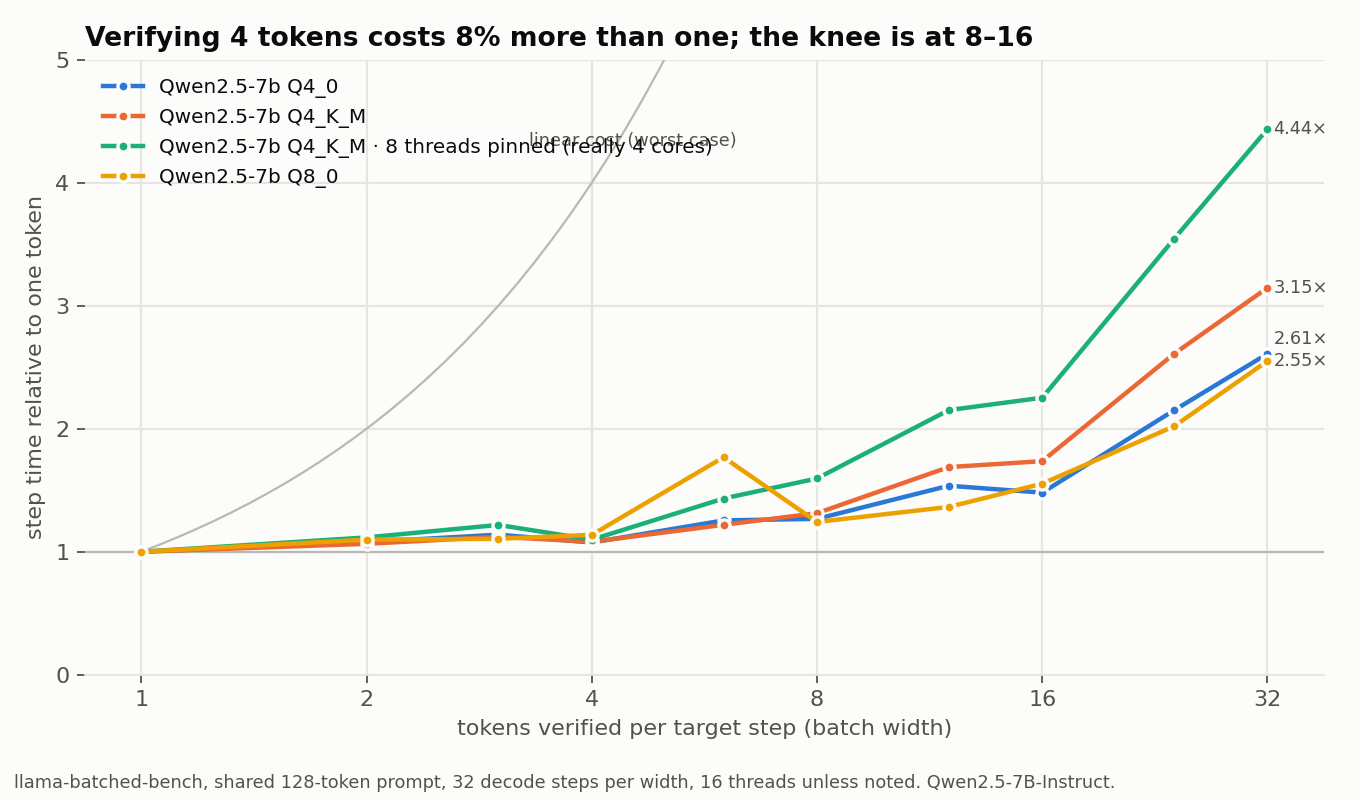
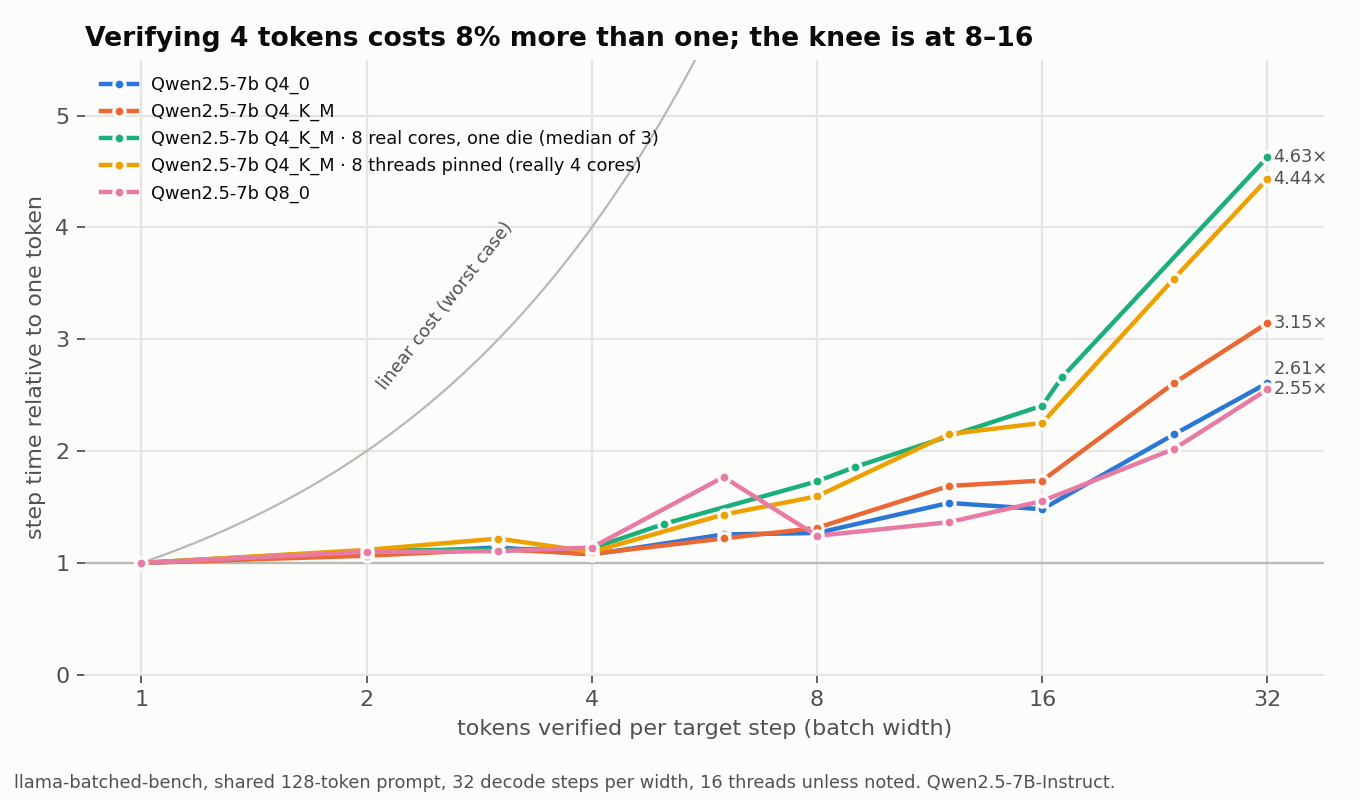
Pinning bug: confession post 15; posts 5 and 10 corrected with rerun numbers (old ones struck through); new p13 chart; ledger updates

diff --git a/index.html b/index.html
@@ -5,7 +5,7 @@ title: GPU Poor
 <section class="hero">
   <p class="eyebrow">A blog about running large language models on a desktop CPU</p>
   <h1 class="hero-title">No GPU. One CPU. <span class="strike">96 GB/s</span> 57 GB/s.</h1>
-  <p class="hero-dek">We put a 14-billion-parameter model on a Ryzen desktop, measured everything, found two bugs in llama.cpp, one in how gcc talks to Windows, and a lot of idle cores. Every number comes with a receipt.</p>
+  <p class="hero-dek">We put a 14-billion-parameter model on a Ryzen desktop and measured everything. We found three bugs in llama.cpp, one in how gcc talks to Windows, one in how we pinned our own threads, and a lot of idle cores. Every number comes with a receipt; the wrong ones stay up, struck through.</p>
 </section>
 
 <ol class="post-list" reversed>

diff --git a/_posts/2026-09-21-the-intern-got-a-vip-lounge.md b/_posts/2026-09-21-the-intern-got-a-vip-lounge.md
@@ -1,15 +1,15 @@
 ---
 layout: post
-title: "We gave the Intern a 96 MB VIP Lounge. Nothing happened."
+title: "We gave the Intern a 96 MB VIP Lounge. Nothing happened. Then we pinned properly."
 date: 2026-09-21 18:00:00 -0400
-sticker: "61.9 vs 62.2"
-sticker_note: "tok/s, with and without the VIP Lounge"
+sticker: "84.4 vs 80.8"
+sticker_note: "tok/s, lounge vs no lounge, after fixing our pinning"
 tags: [v-cache, speculative-decoding, threads]
 lab: P8
-summary: "A tiny draft model runs 1.6× faster alone on the Ryzen's 3D V-cache die, then gains nothing measurable inside speculative decoding (61.9 vs 62.2 tok/s)."
+summary: "A tiny draft model runs 1.5× faster alone on the Ryzen's 3D V-cache die. Inside speculative decoding it first seemed to gain nothing; with pinning done right, the lounge is worth about 4%."
 ---
 
-> **Correction pending (2026-09-22):** every "eight cores on one die" in this post was really **four cores running two threads each**, thanks to how thread pinning interacts with Windows' CPU numbering. The comparisons stay like-for-like, but the absolute numbers and the size of the "give the Target every core" penalty are being remeasured. Details at the bottom.
+> **Corrected (2026-09-22):** every "eight cores on one die" in the first version of this post was really **four cores running two threads each**, thanks to how thread pinning interacts with Windows' CPU numbering. We reran everything on real cores the same day. The lounge turned out to be worth a little (about 4%), and splitting the dies turned out to cost 2%, not 25%. Old numbers are struck through below, new ones sit next to them. [How we pinned 8 threads to 4 cores]({{ site.baseurl }}{% post_url 2026-09-22-eight-threads-four-cores %}) got its own post.
 
 Our CPU has a VIP Lounge. One of its two dies has an extra slab of L3 cache stacked on top, for 96 MB in all. The other die makes do with 32 MB. On the first day, a single run streamed a 48 MB working set out of the lounge at 233 GB/s.
 
@@ -30,26 +30,26 @@ Yes, 145 is bigger than 96. The Intern gets into the lounge with one leg. Hold t
 ![Bar chart: SmolLM2-135M Q8_0 decodes at 495 tok/s with 8 threads on the V-cache die versus 301 tok/s on the other die]({{ '/assets/charts/p8-residency.png' | relative_url }})
 *Same Intern, same thread count, different die. The tall blue bar is faster than the RAM can explain.*
 
-In the lounge he decodes at 495 tok/s. Outside it, 301 tok/s. That is 1.6× for picking the right chair.
+In the lounge he decodes at 495 tok/s. Outside it, 301 tok/s. That is 1.6× for picking the right chair. The rerun on 8 real cores per die, in a later session: 572 vs 379 tok/s, 1.5×. Same chair, same verdict.
 
 It is also more than the RAM can deliver. At 495 tok/s he pulls 71 GB/s of weights. The Bouncer's door passes 57. The difference had to come from cache, so at least a fifth of his weight traffic came from the lounge. That is the leg. (Our first write-up said "most" of him. A reviewer did the subtraction, and that story gets [its own post]({{ site.baseurl }}{% post_url 2026-09-22-three-reviewers-roasted-us %}).)
 
 **Test two: the actual job.** Speculative decoding, greedy, four guesses per round. We tried six layouts, and two of them are the experiment. Both put the Target on the small die ("eight cores", we thought; four, it turned out). In one, the Intern sits in the lounge. In the other, he shares the small die with the Target; they take turns anyway, so in principle nobody waits for a seat. On paper, the only change is which L3 sits behind the Intern.
 
-![Bar chart of speculative decoding layouts: Intern on the V-cache die 61.9 tok/s, Intern on the small die 62.2 tok/s, Target on all 16 cores with a 4-thread Intern 78.5 tok/s]({{ '/assets/charts/p8-spec-layouts.png' | relative_url }})
-*Rows three and four are the experiment: same seat for the Target, different cache behind the Intern. The top two rows give the Target every core.*
+![Bar chart comparing speculative decoding layouts before and after fixing the pinning: 16+16 unpinned 86.2 tok/s; Target on one die with the Intern on the V-cache die 61.9 then 84.4; Intern sharing the Target's die 62.2 then 80.8; Target on the V-cache die 59.0 then 76.8; control with the Intern on one core 66.8]({{ '/assets/charts/p13-layouts.png' | relative_url }})
+*Grey: the first run, where "8 cores" were 4 cores with 2 threads each. Blue: the rerun on 8 real cores per die. The bottom bar is the positive control.*
 
-With the lounge: 61.9 tok/s. Without it: 62.2 tok/s.
+First run. With the lounge: ~~61.9 tok/s~~. Without it: ~~62.2 tok/s~~. The gap was 0.3 tok/s, inside the noise, pointing the wrong way.
 
-The gap is 0.3 tok/s. That is well inside the run-to-run noise. It also points the wrong way, which somehow feels worse.
+Rerun, with honest pinning. With the lounge: **84.4 tok/s**. Without it: **80.8**. Now the lounge is worth about 4%. Not a revolution. Not nothing either.
 
 ## Why
 
-**Measured.** Alone, the lounge cuts an Intern token from 3.3 ms to 2.0 ms. On paper that is 1.3 ms saved per guess. He makes up to four guesses a round. **Also measured:** inside the loop, none of it showed up.
+**Measured.** Alone, the lounge cuts an Intern token from 3.3 ms to 2.0 ms. On paper that is 1.3 ms saved per guess. He makes up to four guesses a round. **Also measured:** inside the loop, ~~none of it showed up~~ about 1 ms per round showed up (38 vs 39 ms per round in the rerun).
 
 **Guessed** (our leading explanation, not a demonstrated one). We think that inside the loop the Intern is not paying for bytes. Each round he drafts up to four tokens and then re-processes a small batch. Every token also means sampling over the full vocabulary, KV cache bookkeeping and launching a fresh compute graph. That is fixed work per token, and a faster cache barely touches it. We upgraded the chair of a man whose problem is paperwork.
 
-**Not measured, and it matters.** We never timed the Intern's own share of a round. We also have no positive control that the server really pinned his threads. A run that squeezes him onto one or two cores should visibly slow the loop; until we see that, "pinned" is an assumption. And the swapped layout, Target in the lounge and Intern outside, came in lowest of the small Intern's one-die layouts. That gap is bigger than anything the lounge did. We cannot explain it yet.
+**Measured in the rerun.** The positive control we were missing: squeeze the Intern onto one core and the loop drops to 66.8 tok/s. Pinning works. And the swapped layout, Target in the lounge and Intern outside, is still the slowest split: 76.8 tok/s. **Guessed:** the lounge die also clocks lower. On day one it streamed from RAM at 52 GB/s against the plain die's 56. The Target lives on RAM bandwidth, so it prefers the fast plain die; the Intern prefers the cache. Everyone ends up where the hardware wanted them.
 
 Pinning the Intern was only possible thanks to the patch in [the Spinners post]({{ site.baseurl }}{% post_url 2026-09-21-we-paid-sixteen-threads-to-spin %}). Before it, llama.cpp read the draft's pinning flags and politely ignored them.
 
@@ -57,16 +57,16 @@ Pinning the Intern was only possible thanks to the patch in [the Spinners post](
 
 The lounge was a bust. The same grid still produced two rules, and neither is subtle.
 
-**Give the Target every core.** Target on all 16 cores, Intern on 4 threads: 78.5 tok/s. Every one-die-Target layout with this Intern landed at 59–62 tok/s. That is a fifth to a quarter slower. It fits [the verification curve]({{ site.baseurl }}{% post_url 2026-09-20-checking-four-answers %}): checking guesses costs more on fewer cores. How much fewer is the embarrassing part: those layouts gave the Target four cores, not eight, so the real price of a die split is smaller than this. Rerun pending.
+**Give the Target every core** ~~(a fifth to a quarter faster)~~. First run: Target on all 16 cores beat every one-die layout by 20–25%. That was the pinning bug talking. Rerun: 16+16 unpinned 86.2 tok/s, best die split 84.4. **Two percent.** For this small pair the split barely matters. For the big 14B Target it does: all 16 threads gave 14.45 tok/s, the best die split 12.75, a 12% loss. Its longer checking step leans harder on the cores, as [the verification curve]({{ site.baseurl }}{% post_url 2026-09-20-checking-four-answers %}) predicts.
 
 **Don't hire an Intern who is too big.** His bigger cousin, SmolLM2-360M, is 386 MB. That is about 40% of the Target's bytes. The Target accepted about 65% of his guesses. The result was 0.99×, an elaborate way to go nowhere. The 145 MB Intern is 15% of the Target. He gave 1.59×.
 
-That comparison is not quite fair. The 1.59× had all 16 cores. The cousin only ever ran on one die (four cores, as it turned out). In that same half-CPU layout, the small Intern still beat plain decode (row three of the chart). So size is the prime suspect, the break-even sits somewhere between the two, and we did not map it.
+That comparison is not quite fair. The 1.59× had all 16 cores. The cousin only ever ran on one die, and a four-core one at that. In that same layout, the small Intern still beat plain decode. So size is the prime suspect, the break-even sits somewhere between the two, and we did not map it.
 
 ## What you should do about it
 
-- **Give the Target all the cores and a small Intern four threads.** In `llama-server` on a 16-core part that is `-t 16 -td 4`. Four draft threads did as well as sixteen here.
-- **Don't bother pinning the draft to the V-cache die** for speculative decoding. We measured no benefit. On stock llama.cpp at our commit, the draft's `--spec-draft-cpu-range` is parsed and ignored anyway.
+- **Give the Target all the cores and a small Intern four threads.** In `llama-server` on a 16-core part that is `-t 16 -td 4`. Four draft threads did as well as sixteen (14.38 vs 14.45 tok/s on the 14B, pinned correctly this time; the first run's "four threads" were really two cores).
+- **If you do split the dies on an X3D part, put the Intern in the lounge and the Target on the plain die.** It beat sharing a die by 4% and the reverse split by 10%. On stock llama.cpp at our commit, the draft's `--spec-draft-cpu-*` flags are parsed and ignored; you need [the patch]({{ site.baseurl }}{% post_url 2026-09-21-we-paid-sixteen-threads-to-spin %}).
 - **Keep the Intern small next to the Target.** 15% of the Target's bytes paid off. 40% bought nothing, at least on half a CPU.
 - **Do use the lounge for a small model running alone.** Pin it with a mask that picks one logical CPU per core on the cache die (here `-C 0x5555 --cpu-strict 1` for 8 threads), not `--cpu-range`, which with `--cpu-strict 1` fills both hyperthreads of the first cores. Check your own CPU's numbering first. Then benchmark the job you actually run, because the standalone number predicted nothing about the loop.
 
@@ -91,12 +91,19 @@ Weight traffic at 495 ......... 71 GB/s [F-P8-1]
 From cache, at least ............. 1/5 [F-P8-1]
   1 - 57/71 ...................... ~20% calc
 Target 1.7B Q4_0 ................. 1 GB [F-P8-4]
+FIRST RUN (4-core pinning bug)
 Loop, Intern in lounge ..... 61.9 tok/s [F-P8-2]
 Loop, Intern outside ....... 62.2 tok/s [F-P8-2]
-  62.2 - 61.9 ............... 0.3 tok/s calc
 Target 16 cores, Intern 4 .. 78.5 tok/s [F-P8-3]
 1-die Target, 135M ........ 59-62 tok/s [F-P8-3]
-  1-62/78.5, 1-59/78.5 ......... 21-25% calc
+RERUN (8 real cores per die)
+Alone, lounge / other ... 572/379 tok/s [F-P13-4]
+16+16 unpinned ............. 86.2 tok/s [F-P13-5]
+Intern in lounge ........... 84.4 tok/s [F-P13-5]
+Intern shares Target die ... 80.8 tok/s [F-P13-5]
+Target in lounge ........... 76.8 tok/s [F-P13-5]
+Control, Intern 1 core ..... 66.8 tok/s [F-P13-1]
+14B 16+16 / split  14.45/12.75 tok/s [F-P13-6]
 386 MB Intern, share ............. ~40% [F-P8-4]
   acceptance ..................... ~65% [F-P8-4]
   speedup ....................... 0.99x [F-P8-4]
@@ -110,11 +117,11 @@ RUNS      alone: 3 reps; loop: 3 prompts x 2
 NOTE      0.99x on a 1-die split layout;
           1.59x on 16+16 unpinned
 NOTE      233 GB/s is one run (later: 321)
-UNTESTED  Intern's in-loop time; pin control
+UNTESTED  Intern's in-loop time
 CORRECTN  "8 cores" were 4 cores x 2 [F-PIN-1]
 THANK YOU FOR NOT BUYING A GPU
 ```
 
 ## Corrections
 
-**2026-09-22 — "eight cores" were four.** llama.cpp's strict pinning gives thread *i* the *i*-th allowed logical CPU, and Windows numbers each core's two hyperthreads next to each other, so `--cpu-range 16-31 --cpu-strict 1` with 8 threads lands on cores 8–11, two threads each. Every pinned layout in this post had that shape; the 16-core rows did not. Test one and the lounge-vs-no-lounge comparison in test two are still like-for-like (both sides had the same four cores). The "give the Target every core" penalty is overstated, and the pinning advice has been fixed above. A rerun with one thread per physical core is running; this post will be updated with its numbers.
+**2026-09-22 — "eight cores" were four.** llama.cpp's strict pinning gives thread *i* the *i*-th allowed logical CPU, and Windows numbers each core's two hyperthreads next to each other, so `--cpu-range 16-31 --cpu-strict 1` with 8 threads landed on cores 8–11, two threads each. Every pinned layout in the first version had that shape; the 16-core rows did not. We reran the key pinned layouts the same day with one logical CPU per core (`0x5555` / `0x55550000`), added the positive control, and updated the title, sticker, chart and rules. The lounge went from "nothing" to "about 4%", and the die-split penalty from "a fifth to a quarter" to "2% for this pair, 12% for the 14B".

diff --git a/_posts/2026-09-20-checking-four-answers.md b/_posts/2026-09-20-checking-four-answers.md
@@ -17,10 +17,10 @@ Speculative decoding is the plan to buy a carton. A tiny model guesses the next 
 
 We priced the checking without a guesser, using a stand-in. llama.cpp ships `llama-batched-bench`, which runs N sequences side by side, each producing one token per step. For the weights, that is the same matrix work as one sequence checking N guessed tokens. The attention part differs slightly, and at our short prompt it barely registers. Divide the step time at N by the step time at 1, and you have the price of checking N answers.
 
-We ran it on Qwen2.5-7B at Q4_0, Q4_K_M and Q8_0, and on the 14B Target at Q4_K_M. Then we ran the 7B Q4_K_M once more, squeezed onto 8 threads pinned to a single die. Everything else ran on 16 threads. (Those 8 threads turned out to be sitting on only 4 physical cores. See the correction at the bottom.)
+We ran it on Qwen2.5-7B at Q4_0, Q4_K_M and Q8_0, and on the 14B Target at Q4_K_M. Then we ran the 7B Q4_K_M once more, squeezed onto 8 threads pinned to a single die. Everything else ran on 16 threads. (Those 8 threads turned out to be sitting on only 4 physical cores. We reran it on 8 real cores; see the correction at the bottom.)
 
 ![Line chart of step time relative to a one-token step, against tokens checked per step, for Qwen2.5-7B at Q4_0, Q4_K_M and Q8_0 on 16 threads and Q4_K_M on 8 threads pinned to one die. At four tokens the 16-thread curves sit at 1.07 to 1.14 times; the pinned curve bends first.]({{ '/assets/charts/p2-verification-cost.png' | relative_url }})
-*Step time relative to a one-token step, 7B only. The grey diagonal is linear cost, the worst case: 4× at four tokens, off the top of the chart soon after. The line labelled "8 thr, one CCD" is really 4 physical cores; see the correction below.*
+*Step time relative to a one-token step, 7B only. The grey diagonal is linear cost, the worst case: 4× at four tokens, off the top of the chart soon after. The yellow line is the original pinned run, which was really 4 physical cores; the green line is the rerun on 8 real cores (median of 3 reps). They land close together.*
 
 The price list:
 
@@ -28,7 +28,7 @@ The price list:
 - On Q4_K_M, the Target's own quant, it is **1.08×**.
 - Checking 8 tokens costs **1.24–1.35×**.
 - Checking 16 tokens costs **1.48–1.74×**.
-- With 8 threads pinned to one die, 8 tokens cost ~~1.60× on 8 cores~~ **1.60×**, and 16 tokens cost **2.25×**. Those threads were on 4 physical cores, not 8. Correction pending.
+- On one die, ~~8 tokens cost 1.60× and 16 cost 2.25×~~ (that run was 4 physical cores). Rerun on 8 real cores, 3 reps: 8 tokens cost **1.65–1.88×**, 16 cost **2.34–2.56×**.
 
 Each point is a single run. A three-rep rerun is queued, so hold the second decimal loosely.
 
@@ -46,7 +46,7 @@ Now the mechanism. The one-trip part is arithmetic, not a guess. A single token 
 
 The rest is the textbook story; our curves fit it, but we did not run a profiler to prove it. At one token per step, most of the CPU is standing in the hallway waiting for bytes. Every weight that comes through the door gets multiplied by every token in the batch. One token means one multiply per weight, then a wait. Four tokens means four multiplies per weight, and the same wait. The extra arithmetic lands on cores that were idle anyway. You pay for the trip to RAM once, and the maths rides along.
 
-**Measured:** the free lunch ends somewhere between 8 and 16 tokens. **Guessed:** past that point the cores stop waiting for RAM and start waiting for themselves. The pinned run fits that story. At one token it is just as fast, because RAM is the limit either way. With less of the chip doing the maths, the bill arrives early. We first wrote "half the chip, half the headroom". It was a quarter of the chip: the 8 threads shared 4 cores. The real half-chip number is being remeasured, and it will matter later, when we try giving the Target one die and the Intern the other.
+**Measured:** the free lunch ends somewhere between 8 and 16 tokens. **Guessed:** past that point the cores stop waiting for RAM and start waiting for themselves. The one-die run fits that story. At one token it is just as fast, because RAM is the limit either way. With half the chip doing the maths, the bill arrives early. Half the chip, half the headroom. (The first run was accidentally a quarter of the chip; the honest half-chip rerun costs about the same, which says something rude about how much a second hyperthread helps these kernels.) It matters later, when we give the Target one die and the Intern the other.
 
 **Measured:** the 14B Target draws the same shape as the 7B. With two models that is a hint, not a law, but the curve looks like a property of the kernel and the core count rather than of the model.
 
@@ -60,7 +60,7 @@ One asterisk on the Q4_0 line. On our stock gcc build, every Q4_0 model crashed,
 
 - **Try speculative decoding on your CPU.** On this machine the checking is cheap. Checking four tokens costs 7–14% more than checking one.
 - **Keep drafts short.** Checking stays cheap up to about 8 tokens and gets pricey after that. On this llama.cpp build the knob is `--spec-draft-n-max`, and the Target checks one token more than the draft length. Past the knee, every extra guess costs real money, including the ones the Target throws away.
-- **Give the Target every core while it checks.** Squeezed onto 4 cores, 16 tokens cost 2.25×. The same 7B Q4_K_M on all 16 cores pays 1.74×. (How much of that survives on 8 honest cores: correction pending.)
+- **Give the Target every core while it checks,** at least for long drafts. On one die, 16 tokens cost 2.34–2.56×. On all 16 cores, 1.74×. At four tokens the gap is small (1.11–1.16× vs 1.08×).
 - **Price your own carton before you go shopping.** One command measures the curve for any model: `llama-batched-bench -m model.gguf -pps -npp 128 -ntg 32 -npl 1,2,4,8,16`. Divide each row's `T_TG s` by the first row's. If those ratios climb anywhere near 2, 4, 8, 16, no Intern can save you.
 
 The carton is cheap. Now we need someone to fill it, so we went and [hired the cheapest Intern we could find]({{ site.baseurl }}{% post_url 2026-09-20-hire-the-cheapest-intern %}).
@@ -78,10 +78,11 @@ VERIFY N TOKENS / VERIFY 1, 16 THREADS
 16 tok, all 4 curves ... 1.48-1.74x  [F-P2-2]
 16 tok, Q4_0 (flattest) ..... 1.48x  [F-P2-2]
 16 tok, 7B Q4_K_M ........... 1.74x  [F-P2-2]
-8 THREADS PINNED, REALLY 4 CORES, 7B Q4_K_M
- 8 tok ...................... 1.60x  [F-P2-3]
-16 tok ...................... 2.25x  [F-P2-3]
- (8 real cores: rerun pending)      [F-PIN-1]
+ONE DIE, 8 REAL CORES, 7B Q4_K_M, 3 REPS
+ 4 tok ................. 1.11-1.16x  [F-P13-3]
+ 8 tok ................. 1.65-1.88x  [F-P13-3]
+16 tok ................. 2.34-2.56x  [F-P13-3]
+(first run on 4 cores: 1.60/2.25) [F-P2-3]
 DERIVED
  1.08 - 1 ..................... +8%  [F-P2-1]
  1.07..1.14 - 1 ............ +7-14%  [F-P2-1]
@@ -102,4 +103,4 @@ THANK YOU FOR NOT BUYING A GPU
 
 ## Corrections
 
-**2026-09-22 — the "one die" line was 4 cores, not 8.** A fact-checker reading llama.cpp's thread placement noticed that `--cpu-range 16-31 --cpu-strict 1` hands thread *i* the *i*-th allowed logical CPU, and Windows numbers the two hyperthreads of each core next to each other. So "8 threads on one die" meant cores 8–11, two threads each. The numbers above are what that layout measured; the label was wrong. A rerun on 8 real cores (mask `0x55550000`) is running, and this post will get the corrected curve. Everything measured on 16 unpinned threads is unaffected.
+**2026-09-22 — the "one die" line was 4 cores, not 8.** A fact-checker reading llama.cpp's thread placement noticed that `--cpu-range 16-31 --cpu-strict 1` hands thread *i* the *i*-th allowed logical CPU, and Windows numbers the two hyperthreads of each core next to each other. So "8 threads on one die" meant cores 8–11, two threads each. We reran it the same day with a mask that picks one logical CPU per core (`-C 0x55550000 --cpu-strict 1`), three reps. On 8 real cores, 8 tokens cost 1.65–1.88× and 16 cost 2.34–2.56×, no better than the accidental 4-core run. The half-chip conclusion stands; the old numbers are struck through above. The full story of the bug is in [its own post]({{ site.baseurl }}{% post_url 2026-09-22-eight-threads-four-cores %}).

diff --git a/_posts/2026-09-22-eight-threads-four-cores.md b/_posts/2026-09-22-eight-threads-four-cores.md
@@ -1,0 +1,99 @@
+---
+layout: post
+title: "We hired eight movers. It was four guys in two hats each."
+date: 2026-09-22 15:20:00 -0400
+sticker: "8 = 4"
+sticker_note: "threads we pinned vs cores we got"
+tags: [threads, pinning, corrections]
+lab: P13
+summary: "For two days every 'eight cores on one die' result on this blog ran on four cores with two threads each. A fact-checker caught it. The rerun overturned one finding, softened another and left the rest standing."
+---
+
+For two days we ran experiments on "one die, eight cores". We split the Target and the Intern across the two dies of our Ryzen. We measured how much the split cost. We wrote it up. It cost a fifth to a quarter of the speed, we said, so give the Target every core.
+
+Then a fact-checker, auditing the one-die curve in our verification-cost post, read llama.cpp's thread code. The question that came back was rude. How many physical cores did those eight threads actually get?
+
+Four.
+
+## How eight became four
+
+Our CPU has 16 cores and 32 logical CPUs, because each core runs two hardware threads. Windows numbers them in pairs: core 0 is CPUs 0 and 1, core 8 is CPUs 16 and 17. So far, so normal.
+
+To pin llama.cpp to the second die we wrote `--cpu-range 16-31 --cpu-strict 1` with 8 threads. That range is all 16 logical CPUs of die two. We assumed eight threads would spread across it. Strict mode does not spread. It hands each thread the next allowed CPU in order: 16, 17, 18 and so on up to 23. CPUs 16 to 23 are cores 8, 9, 10 and 11, two threads each.
+
+We hired eight movers. We got four guys, each wearing two hats.
+
+**Read, not guessed:** the placement is in llama.cpp's source, and Windows' own processor map confirms the pairs. The most embarrassing detail: our own memory benchmark from day one pinned every other CPU, correctly. We knew the numbering. We just did not tell llama.cpp.
+
+The fix is a mask with one bit per core: `-C 0x55550000 --cpu-strict 1` for the eight real cores of die two, `0x5555` for die one. We reran the key pinned layouts the same day.
+
+## What the rerun changed
+
+![Bar chart comparing speculative decoding layouts before and after fixing the pinning: 16+16 unpinned 86.2 tok/s; Target on one die with the Intern on the V-cache die 61.9 then 84.4; Intern sharing the Target's die 62.2 then 80.8; Target on the V-cache die 59.0 then 76.8; control with the Intern on one core 66.8]({{ '/assets/charts/p13-layouts.png' | relative_url }})
+*SmolLM2-1.7B Target, SmolLM2-135M Intern, four guesses per round. Grey: the first run, four guys in two hats per die. Blue: the rerun two days later, eight real cores per die. The runs are different sessions: all 16 threads unpinned did 78.2 in the first one. Compare bars within a colour, not across.*
+
+**Overturned: "splitting the dies costs a fifth to a quarter."** First run: every one-die layout lost 20–25% against all 16 threads. Rerun: all 16 threads unpinned did 86.2 tok/s. The best split did 84.4. That is 2%.
+
+**Softened: "the VIP Lounge does nothing in the loop."** First run: 61.9 tok/s with the Intern in the lounge, 62.2 with him sharing the Target's die. Rerun: 84.4 and 80.8. About 4%. [That post]({{ site.baseurl }}{% post_url 2026-09-21-the-intern-got-a-vip-lounge %}) now carries both sets of numbers, the old ones struck through.
+
+**Survived, awkwardly: the one-die checking cost.** In the two-hat run, checking 8 guessed tokens cost 1.60× a one-token round. That was a single run. The rerun on eight real cores, three reps, gave 1.65–1.88×. Twice the real cores did not make checking any cheaper relative to one token. **Guessed:** in these kernels, a core's second hardware thread hides about as much waiting as a second core adds arithmetic. Or something else on the machine got in the way. We did not separate the two. [That post]({{ site.baseurl }}{% post_url 2026-09-20-checking-four-answers %}) has the new curve.
+
+**Survived: the Intern alone in the lounge.** 572 tok/s on the cache die against 379 on the other, with eight real cores each. That is 1.5×. The first run, in an earlier session, said 1.6×. Both sides then had the same four guys in hats, so that comparison was fair all along.
+
+**Survived intact: almost everything else.** Nearly every headline number on this blog ran on 16 unpinned threads. The pinning bug never touched them.
+
+## The control we should have run first
+
+Our reviewers had asked for it earlier the same day: prove the pinning works by pinning something somewhere it must hurt. So we squeezed the Intern onto a single core. The loop fell from 84.4 tok/s to 66.8. Pinning works. It just has to be told the truth.
+
+## The big Target is different
+
+For the 14B Target and its 0.5B Intern, the split still hurts. All 16 threads: 14.45 tok/s. Target on one die, Intern on the other: 12.75. That is 12% slower. **Guessed:** a 14B round spends far longer checking, and checking is where extra cores earn their keep.
+
+A 4-thread Intern on four real lounge cores, next to a 16-thread Target: 14.38 tok/s. The Intern still needs only four threads.
+
+## What you should do about it
+
+- **Before you pin anything, look up your CPU numbering.** On this Windows machine each core's two threads are neighbours. Other systems can number them differently. On Linux, `lscpu -e` shows which core each logical CPU belongs to.
+- **Pin with a mask that has one bit per core** if you want one thread per core. On this machine, `--cpu-range` plus `--cpu-strict 1` packs threads onto both hardware threads of each core.
+- **Never pin 16 threads with a full strict mask** on a 16-core part numbered like ours. It packs all 16 onto the first 8 cores. Leave a 16-thread run unpinned.
+- **Run a positive control.** Pin something where it must be slow and check that it is.
+
+## The receipt
+
+```receipt
+GPU POOR LABS                         2026-09-22
+------------------------------------------------
+Threads pinned per die ............. 8 [F-PIN-1]
+Physical cores they got ............ 4 [F-PIN-1]
+Mask die 1 (lounge) ........... 0x5555 [F-PIN-2]
+Mask die 2 ................ 0x55550000 [F-PIN-2]
+FIRST RUN, 4 cores x 2 threads [F-PIN-1]
+16+16 unpinned ............ 78.2 tok/s [F-P8-3]
+One-die layouts .......... 59-62 tok/s [F-P8-3]
+Split vs all-16 penalty ....... 20-25% [F-P13-7]
+Loop, lounge / sharing ..... 61.9/62.2 [F-P8-2]
+Intern alone, lounge/other ... 495/301 [F-P8-1]
+1 die, verify 8, 1 run ......... 1.60x [F-P2-3]
+RERUN, 8 real cores per die [F-PIN-2]
+16+16 unpinned ............ 86.2 tok/s [F-P13-5]
+Best split ................ 84.4 tok/s [F-P13-5]
+Intern on Target's die .... 80.8 tok/s [F-P13-5]
+Target in lounge .......... 76.8 tok/s [F-P13-5]
+Split cost / lounge gain ..... 2% / 4% [F-P13-5]
+1 die, verify 8, 3 reps ... 1.65-1.88x [F-P13-3]
+Intern alone, lounge/other ... 572/379 [F-P13-4]
+Intern alone, ratio ............ 1.51x [F-P13-4]
+Control: Intern, 1 core ... 66.8 tok/s [F-P13-1]
+14B all-16 / split ....... 14.45/12.75 [F-P13-6]
+14B split cost ................... 12% [F-P13-6]
+14B Target 16, Intern 4 .. 14.38 tok/s [F-P13-6]
+------------------------------------------------
+HARDWARE  Ryzen 9 9950X3D, 2x48GB DDR5-6000
+BUILD     llama.cpp a894dae + P6/P7 patches
+RUNS      loops 3 prompts x 2 reps; Intern
+          alone and verify curve 3 reps
+SESSIONS  first run 2026-09-20, rerun 09-22
+CAUGHT BY a fact-checker, not by us
+THANK YOU FOR NOT BUYING A GPU
+```

diff --git a/FACTS.md b/FACTS.md
@@ -10,8 +10,17 @@ Session noise: plain decode of the same 14B model varied 6.24–6.70 tok/s acros
 
 | id | fact | source | note |
 |---|---|---|---|
-| F-PIN-1 | Every llama.cpp run pinned to one die with `--cpu-range 0-15` / `16-31` or masks `0xFFFF` / `0xFFFF0000` plus `--cpu-strict 1` put its 8 threads on **4 physical cores, 2 threads each**: strict placement gives thread *i* the *i*-th allowed logical CPU, and Windows numbers the two SMT threads of a core next to each other (core 8 = CPUs 16, 17) | llama.cpp `ggml_thread_cpumask_next`, Windows processor map | found by a fact-checker on 2026-09-22; affects F-P2-3, F-P8-1/2/3/4 and the die-split rows of P3a/P6; the lab's own STREAM and gather benchmarks were unaffected (they pinned every other CPU) |
+| F-PIN-1 | Every llama.cpp run pinned to one die with `--cpu-range 0-15` / `16-31` or masks `0xFFFF` / `0xFFFF0000` plus `--cpu-strict 1` put its 8 threads on **4 physical cores, 2 threads each**: strict placement hands each thread the next allowed logical CPU in order (the 8 threads land on CPUs 16…23), and Windows numbers the two SMT threads of a core next to each other (core 8 = CPUs 16, 17) | llama.cpp `ggml_thread_cpumask_next`, Windows processor map | found by a fact-checker on 2026-09-22; affects F-P2-3, F-P8-1/2/3/4 and the die-split rows of P3a/P6; the lab's own STREAM benchmark pinned every other CPU and was correct; the gather benchmark is unpinned and was unaffected |
 | F-PIN-2 | Correct one-die masks: CCD0 cores `0x5555`, CCD1 cores `0x55550000` | same | rerun with these: P13 |
+| F-P13-1 | Positive control: 1.7B Target on 8 real cores with the 135M draft pinned to **one** core: 66.8 tok/s vs 84.4 with 8 draft cores | `results/p13-*.jsonl` | pinning takes effect (with the P6 patch) |
+| F-P13-2 | One die, 8 real cores, plain decode: 7B Q4_K_M **12.67** tok/s (old 4-core layout 11.89; 16 unpinned ~12.9); 1.7B 52.4 vs 54.2 on 16; 14B 6.43 vs 6.36 | P13 | one die = 97–101% of the chip |
+| F-P13-3 | Verification cost on one die, 8 real cores, 7B Q4_K_M, 3 reps: 4 tokens **1.11–1.16×**, 8 tokens **1.65–1.88×**, 16 tokens **2.34–2.56×** | `results/p13-p2-ccd1-8cores.jsonl` | replaces F-P2-3; not smaller than the old 4-core figures (1.60 / 2.25) |
+| F-P13-4 | 135M draft alone, 8 real cores: **572** tok/s on the V-cache die vs **379** on the other (1.51×); 4 real cores 573 vs 365 | P13 | residency effect survives; higher than P8's 495/301 (different session) |
+| F-P13-5 | 1.7B + 135M, K = 4: 16+16 unpinned **86.2**; Target CCD1 + draft CCD0 (V-cache) **84.4**; draft sharing the Target's CCD1 80.8; Target on V-cache die + draft on CCD1 **76.8** tok/s | P13 | die split costs 2%; draft-in-cache beats sharing by 4%; swapping dies costs 9% |
+| F-P13-6 | 14B Q4_K_M + 0.5B Q8_0, K = 4: 16+16 **14.45** tok/s (2.27×); Target 16 + draft 4 cores 14.38; Target one die + draft other die **12.75** (2.00×) | P13 | die split costs 12% on the big model |
+| F-P13-8 | First-run (P8) server means for the 1.7B pair: 16+16 unpinned **78.2** tok/s; one-die layouts 59.0 (Target on V-cache die), 61.9, 62.2; penalty vs 78.2 = 20–25% | `results/p8-spec.jsonl` | different session from P13; compare within a session |
+| F-P13-7 | Old claim withdrawn: "every one-die Target layout loses 20–25%" (P8) was mostly the pinning bug | P13 | |
+
 
 ## Memory and the ceiling (P0, P10)
 
@@ -60,7 +69,7 @@ Session noise: plain decode of the same 14B model varied 6.24–6.70 tok/s acros
 |---|---|---|---|
 | F-P2-1 | Verifying 4 tokens per step costs **1.07–1.14×** one token (Q4_0 1.07, Q4_K_M 1.08, Q8_0 1.14) | `results/p2-batch.jsonl` | 1 run per point; 3-rep rerun queued |
 | F-P2-2 | 8 tokens: **1.24–1.35×**; 16 tokens: **1.48–1.74×** (Q4_0 flattest at 16) | P2 | same caveat |
-| ~~F-P2-3~~ | ~~On 8 cores instead of 16: 8 tokens cost 1.60×, 16 cost 2.25×~~ **Superseded:** that run used 8 threads on **4 physical cores** (F-PIN-1). Measured as run: 8 threads on one die (4 cores × 2 SMT threads): 8 tokens 1.60×, 16 tokens 2.25× | P2 | corrected rerun on 8 real cores: see F-P13 when it lands |
+| ~~F-P2-3~~ | ~~On 8 cores instead of 16: 8 tokens cost 1.60×, 16 cost 2.25×~~ **Superseded:** that run used 8 threads on **4 physical cores** (F-PIN-1). Measured as run: 8 threads on one die (4 cores × 2 SMT threads): 8 tokens 1.60×, 16 tokens 2.25× | P2 | first run 1 rep; corrected rerun on 8 real cores: F-P13-3 |
 
 ## Speculative decoding (P3, P6, P9)
 

diff --git a/SERIES.md b/SERIES.md
@@ -118,6 +118,18 @@ Status legend: `planned` → `drafted` → `fact-checked` → `published`. Posts
 - **Lab:** `poc/P12-eagle3-heads/README.md`.
 - **Chart:** none yet (table).
 
+### 15. `2026-09-22-eight-threads-four-cores` — 2026-09-22 15:20 (published)
+- **Title:** "We hired eight movers. It was four guys in two hats each."
+- **Sticker:** `8 = 4` — "threads we pinned vs cores we got"
+- **Angle:** confession. `--cpu-range` + `--cpu-strict 1` put 8 threads on 4 hyperthreaded cores; a fact-checker caught it; the same-day rerun overturned the die-split penalty (2%/12%, not 25%), softened the V-cache result (+4%), and left the rest standing. Positive control. Advice on masks.
+- **Facts:** F-PIN-1/2, F-P13-1 … F-P13-7, F-P8-2/3, F-P2-3.
+- **Lab:** `poc/P13-pinning-rerun/README.md`, `docs/adr/0012-pinning-masks.md`.
+- **Chart:** `p13-layouts.png`. Posts 5 and 10 were corrected in place (strike-throughs) and link here.
+
 ## Next up (not yet written)
 
-- Quality v2 (token ids, serial vs batched paths), P2/P6 reruns, the BIOS check.
+- **The two llama.cpp PRs, filed** (P6 pause-pools, P7 Q4_0 pointer fix, plus the one-line qwen2 `t_layer_inp`): a post when they are actually sent, with maintainer feedback if any.
+- **The BIOS check** (P10 cliffhanger): if the memory controller was at half clock, a re-baseline post ("Everything on this blog just got 1.3× faster").
+- **Tiled GEMM + `--no-repack` as a verification-curve story**: does the PR flatten t(8+) on Q4_K_M?
+- **Reruns queued by the review** (P2 at 3 reps, P6 interleaved stock vs patched).
+
